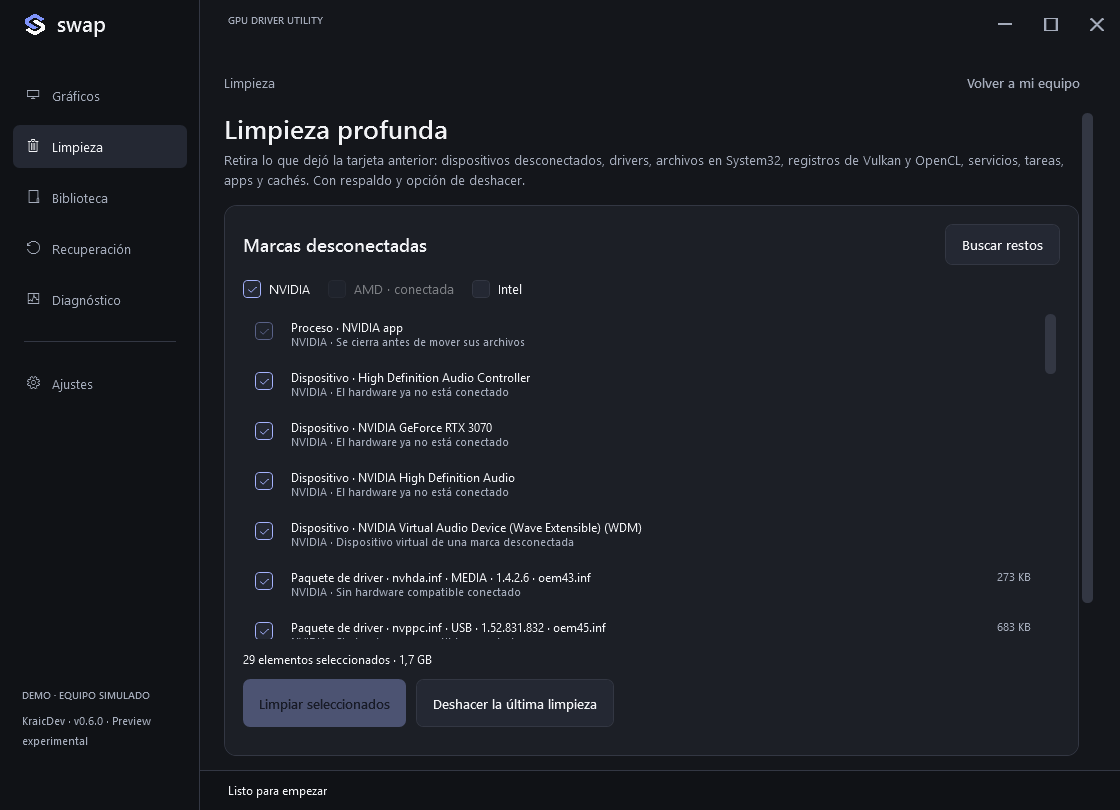
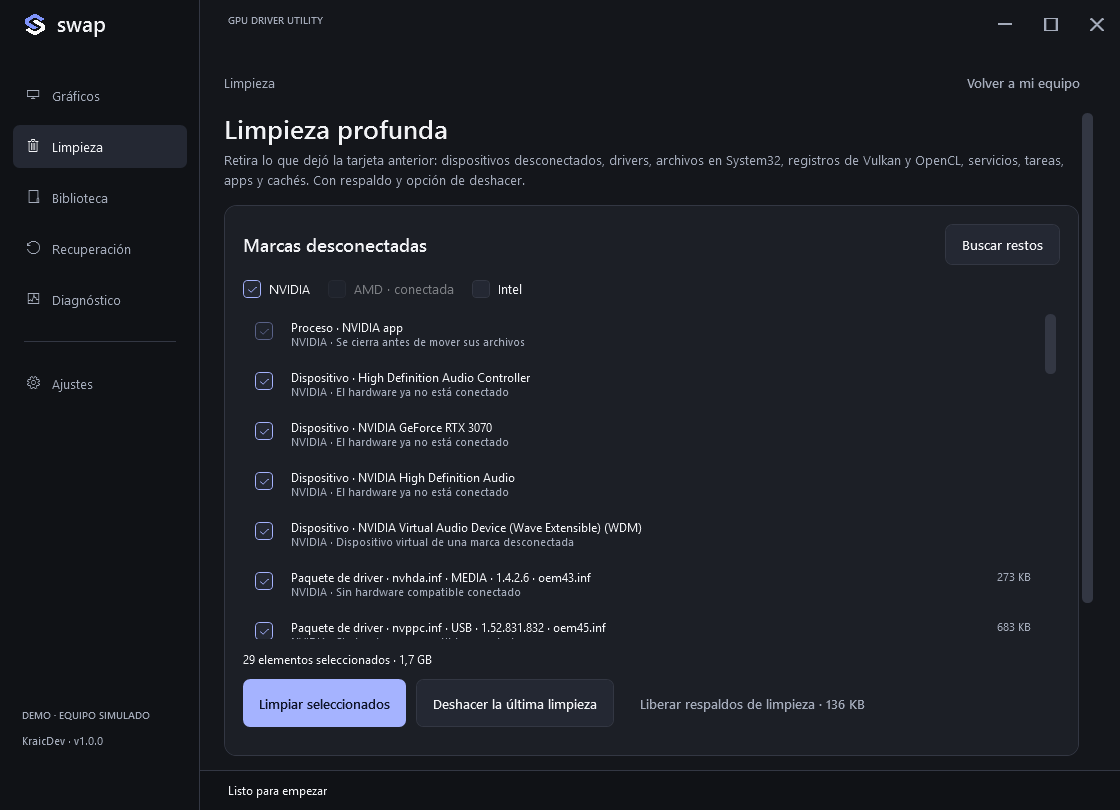
Record the 1.0.0 validation: a real card change and the exact executable
The CI executable of 88ee5b7 (SHA-256 035C7A91…B9980A) passed 199 logic
tests in CI; on the real PC after the GTX 1060 to RX 7600 change, 205
exact tests run elevated and 158 interface cases; in an isolated Windows
10 guest, 206 checks including the deep-cleanup lab with undo and the
protected PnP entry lab, 158 interface cases and 12 environment and
identity checks. README screenshots come from the same executable.

Changed region(s): [[0.2188, 0.8333, 0.375, 0.8951], [0.0, 0.8333, 0.125, 0.9259], [0.5625, 0.8642, 0.7812, 0.8951]]

diff --git a/docs/validation/V100-RESULTS.md b/docs/validation/V100-RESULTS.md
@@ -1,0 +1,51 @@
+# Swap 1.0.0 validation
+
+KraicDev · 14 October 2026.
+
+Swap 1.0.0 is the first release validated on a real card change. The exact GitHub Actions executable also passed the logic tests, an isolated Windows guest and the interface audit, and was run again on the same real PC after the change.
+
+| Item | Result |
+| --- | --- |
+| Source commit | `88ee5b7a2e08c47c095ab5b5ae3668978175fb4b` |
[1 lines of base64/hex data omitted]
+| Executable bytes | 65,957,585 |
+| CI logic regression | 199 passed, 0 failed |
+| Real PC after the change, exact tests (elevated) | 205 passed, 0 failed |
+| Real PC, exact executable interface audit | 158 passed, 0 failed, 48 captures |
+| Isolated guest: logic, native probes, API check, deep-cleanup lab, protected PnP entry lab | 206 passed, 0 failed |
+| Isolated guest: actual WPF interface and simulated workflows | 158 passed, 0 failed, 48 captures |
+| Isolated guest: environment and executable identity checks | 12 passed |
+| Authenticode | Not signed; free provider review pending |
+
+[Exact CI build](https://github.com/zKraic/Swap/actions/runs/38639242945) · [Machine-readable evidence](v100-result.json) · [Comparison with Display Driver Uninstaller](../COMPARISON-DDU.md) · [Physical validation tracker](https://github.com/zKraic/Swap/issues/3).
+
+## The real card change
+
+| | Before | After |
+| --- | --- | --- |
+| GPU | MSI GeForce GTX 1060 6GB (`PCI\VEN_10DE&DEV_1C03`) | ASUS Radeon RX 7600 (`PCI\VEN_1002&DEV_7480`) |
+| Driver | NVIDIA 32.0.15.8278 (582.78) with NVIDIA App 11.0.5 | AMD 32.0.21030.2001, installed by Windows Update, signed, no PnP error |
+| Direct3D 12 | Feature level 12_1 | Feature level 12_2 |
+| Vulkan | 1.4.312 on the GTX 1060 | 1.4.315 on the RX 7600 |
+| OpenCL | 3.0 CUDA | 2.1 AMD-APP, 1 GPU |
+| PCIe link | — | x8 Gen 4 of x8 Gen 4 |
+| Displays | 1920×1080 at 179 Hz, 3840×2160 at 60 Hz | 1920×1080 at 180 Hz, 3840×2160 at 60 Hz |
+
+PC: Intel Core i5-9400F (no integrated graphics), Gigabyte H310M DS2 2.0, 16 GB, Windows 11 Pro build 26300 in Spanish, UEFI with Secure Boot, BitLocker off, TeamViewer installed and idle, 9 GB free on the system drive (Swap ran portable with its data on another internal drive).
+
+1. **Preparation** (release candidate `6350463`): **I'm changing my card** backed up the NVIDIA Display package (2.46 GB) and registered the sign-in task.
+2. **Test restart with the old card** to install pending Windows updates: the task opened Swap elevated without a UAC prompt, the RunOnce fallback stepped aside, and the change stayed prepared. This start showed "Windows 11 Pro Â· 10.0.26300": an encoding bug fixed in build `58397d6`, which was then armed in place of the candidate.
+3. **Full shutdown from Swap, power unplugged, card replaced.** At the first sign-in Windows had already installed the AMD driver through Windows Update. Swap opened by itself without UAC, recognised the RX 7600, verified the signed driver and hardware Direct3D, removed the disconnected GTX 1060 and its package, and ran the deep cleanup.
+4. **That cleanup removed 51 items and reported 1,890 for review**: Windows 11 denied deleting 1,889 PnP lockdown entries reserved for TrustedInstaller, and restarted NVIDIA programs kept `C:\ProgramData\NVIDIA Corporation` open. Translated Programs entries, hidden sub-components, NVIDIA App capture modules and the Virtual Audio service had also stayed. All of this is fixed in 1.0.0.
+5. **Second cleanup with the fixes** (build `6b6e06f`): 1,895 removed, 0 failed, including the 1,889 protected entries (removed with the restore privilege after a hive backup). Only `GfnRuntimeSdk` stayed, held open by Epic Games Launcher, which ships NVIDIA's GeForce NOW SDK; 1.0.0 keeps that folder on purpose.
+6. **Final state:** no NVIDIA device, service, task, process or NVIDIA-authored System32/SysWOW64 file; the RX 7600 at 180 Hz. Kept on purpose: PhysX, the GeForce NOW SDK folder, the boot-critical `nvppc` package (opt-in), one hidden NVIDIA installer entry with no file evidence, and two Driver Store folders Windows no longer registers.
+
+The exact 1.0.0 tests then ran on this PC (elevated): the real sign-in task registration and removal with the protected copy, a protected PnP entry round trip (hive backup, privileged delete, restore), the read-only cleanup preview (nothing left to remove automatically) and the graphics API check above.
+
+## Isolated guest
+
+Windows 10 Enterprise LTSC Evaluation 10.0.19044 x64 under QEMU, no network, no GPU passthrough, no preinstalled .NET, as SYSTEM in a non-interactive session; the evaluation image powers itself off every hour, so the logic and lab checks run in one boot and the interface audit in the next one of the same clean guest. The deep-cleanup lab stages four real signed NVIDIA driver packages without NVIDIA hardware, with vendor-like services, a task, a startup entry, a Programs entry, folders, settings and a running process, cleans them with the real Windows platform, checks the administrator-only backup and undoes it. Result: 16 items removed, 14 restored by undo (everything that has a backup), 0 failures. The protected PnP entry round trip and the graphics API check also passed in the guest. A first attempt was discarded because an overdue Windows Defender full scan saturated the two emulated CPUs and pushed the inventory past its limit; the scan was cancelled in the disposable guest (real-time protection stayed on) and the run was repeated from scratch.
+
+The measured comparison with the official AMD display driver and Display Driver Uninstaller is in [COMPARISON-DDU.md](../COMPARISON-DDU.md) (Swap 0.6.0; 1.0.0 additionally removes the protected PnP entries Windows 11 reserves).
+
+**Not tested:** other directions (AMD to NVIDIA, either to or from Intel Arc), laptops and hybrid graphics, vendor installer suites such as AMD Software, games beyond the runtime checks, and every DPI/monitor combination. One real change is evidence, not a certification of every system; reports from other combinations are welcome through the hardware validation form.

diff --git a/.github/RELEASE_NOTES.md b/.github/RELEASE_NOTES.md
@@ -8,7 +8,7 @@ Change your graphics card brand on Windows without leftovers — **before or aft
 - **Progress with percentages**, **Free cleanup backups**, one-click highest refresh rate after the change, and a link to the manufacturer's optional control panel.
 - Fixes: text encoding on non-English Windows, the taskbar icon, and the clean button after an analysis.
 
-**Exact executable validated.** __VALIDATION__
[1 lines of base64/hex data omitted]
 
 Download **Swap.exe** directly. No installer, ZIP or separate .NET. Administrator permission is required; Windows may require a restart after changing a driver.
 
